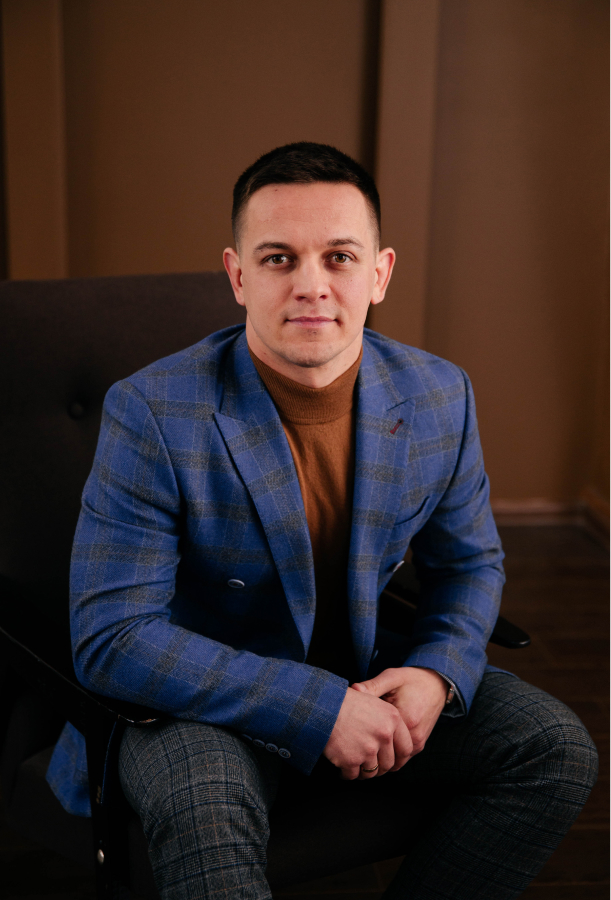
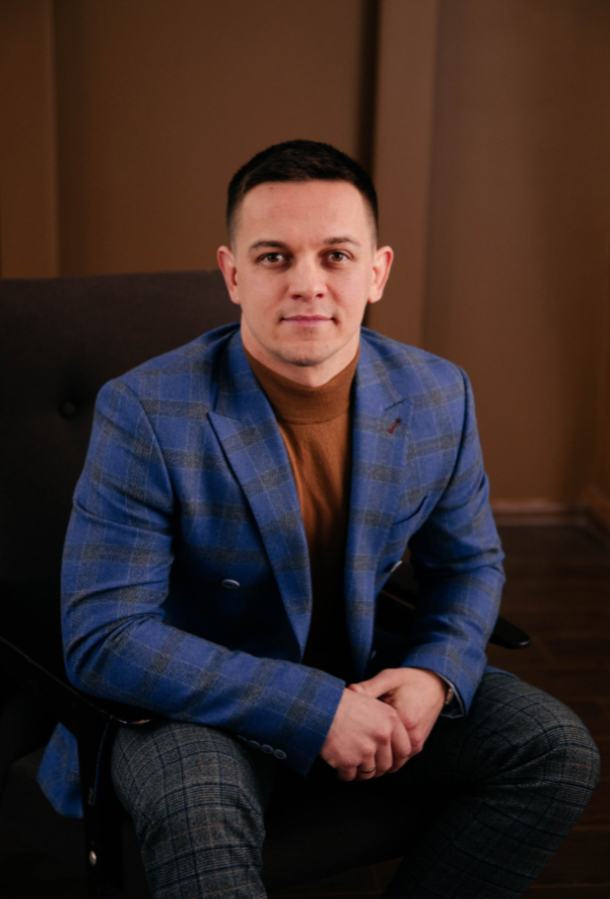
trim white border in owner image

diff --git a/src/components/Owner/Owner.jsx b/src/components/Owner/Owner.jsx
@@ -44,7 +44,7 @@ export const Owner = () => {
         <ImageBoxStyled>
           <ImageStyled
             src={imageOwner}
-            width={611}
+            width={610}
             height={900}
             alt="photo-owner"
           />
